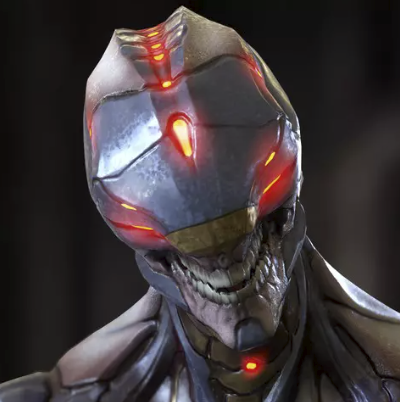
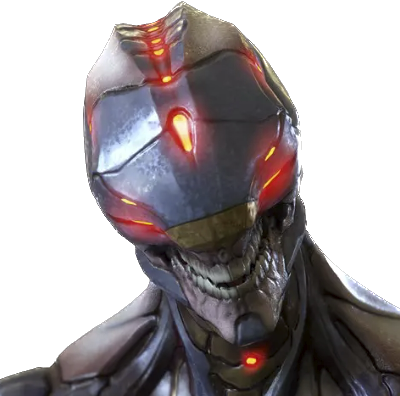
图标更新

diff --git a/Assets/FightingSceneUISystem/HeroIcon.cs b/Assets/FightingSceneUISystem/HeroIcon.cs
@@ -1,4 +1,5 @@
-using dataAccess;
+using Cysharp.Threading.Tasks;
+using dataAccess;
 using UnityEngine;
 using UnityEngine.UI;
 using Singleton;
@@ -74,7 +75,28 @@ public class HeroIcon : MonoBehaviour {
         ChangeIcon(null, Element.Null);
     }
     
-    void ChangeIcon(Sprite sprite, Element element)
+    void AdjustSize(Image icon)
+    {
+        var sprite = icon.sprite;
+        var iconRect = icon.GetComponent<RectTransform>();
+        var wholeParentRect = transform.GetComponent<RectTransform>();
+        float spriteAspectRatio = sprite.rect.width / sprite.rect.height;
+        
+        if (spriteAspectRatio < 1)
+        {
+            iconRect.sizeDelta = new Vector2(
+                sprite.rect.width * wholeParentRect.rect.height / sprite.rect.height, 
+                wholeParentRect.rect.height);
+        }
+        else
+        {
+            iconRect.sizeDelta = new Vector2(
+                wholeParentRect.rect.width, 
+                sprite.rect.height * wholeParentRect.rect.width / sprite.rect.width);
+        }
+    }
+    
+    async void ChangeIcon(Sprite sprite, Element element)
     {
         //Icon.GetComponent<RectTransform>().sizeDelta = new Vector2(frame.GetComponent<RectTransform>().sizeDelta.x * 0.8f, frame.GetComponent<RectTransform>().sizeDelta.y * 0.8f);
         // if (cooldownCurtain != null)
@@ -110,6 +132,8 @@ public class HeroIcon : MonoBehaviour {
         frame.color = color;
         iconBg.color = new Color(color.r,color.g,color.b,0.7f);
         icon.sprite = sprite;
+        await UniTask.DelayFrame(1);
+        AdjustSize(icon);
         icon.gameObject.SetActive(sprite != null);
     }
     
